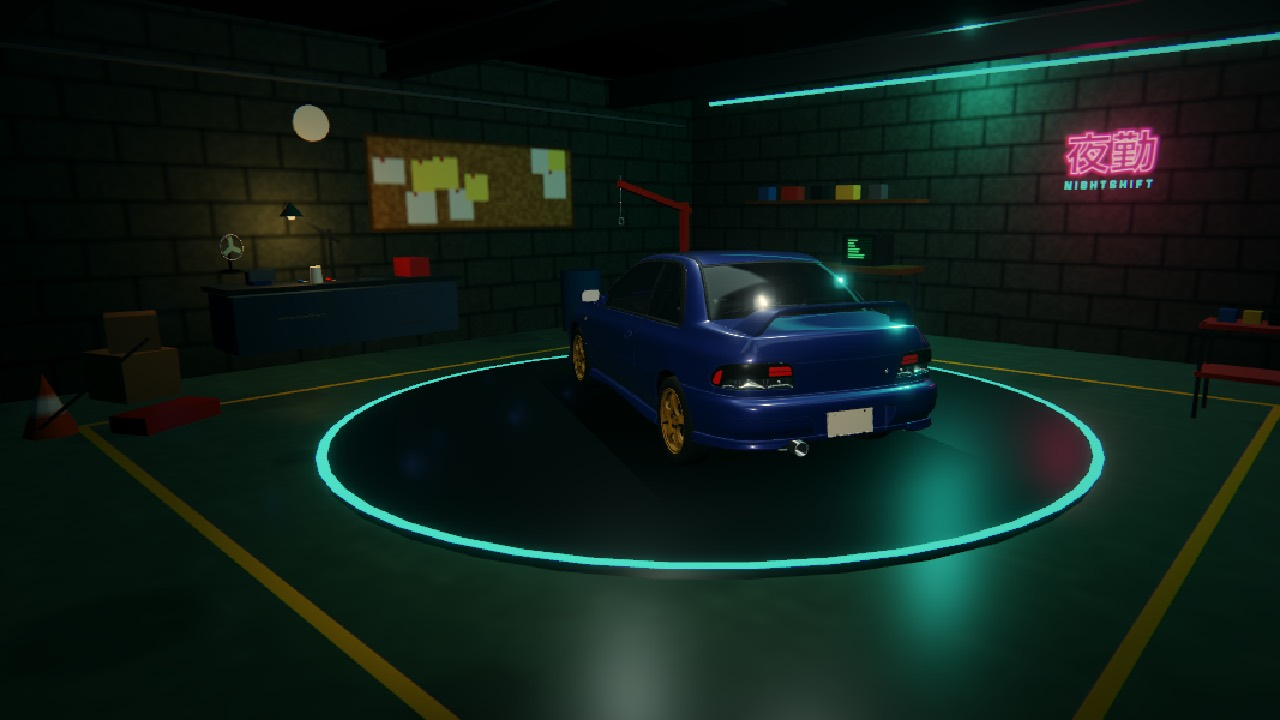
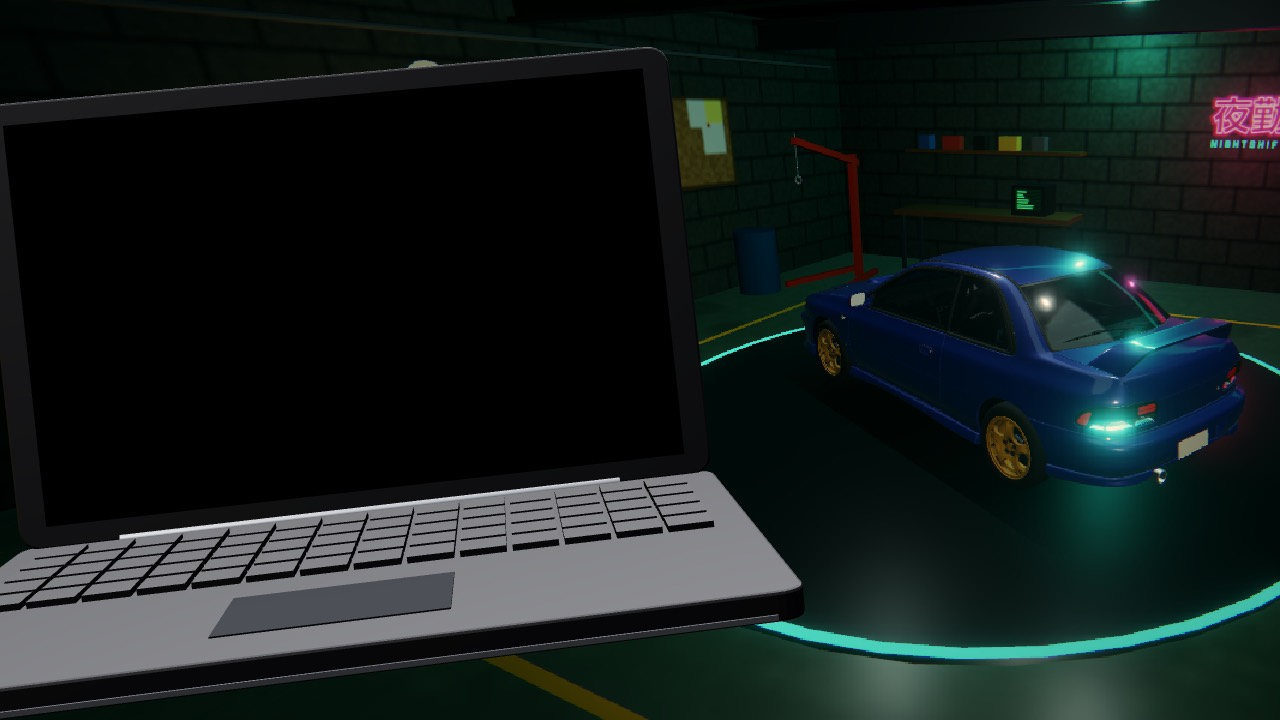
Part 3 of Arlo's fourth notes: Yamagiri Pass, Parabolica in blossom, sky bake, new trees and buildings, docs

diff --git a/src/world/mountain-scene.js b/src/world/mountain-scene.js
@@ -160,10 +160,7 @@ export function buildMountain(track, def) {
   const lampAt = (k) => {
     const [x, z] = along(k, W + 0.6), i = at(k);
     place.add('mountain-lamp', x, track.y[i], z, Math.atan2(-track.leftZ(i), track.leftX(i)));
-    const g = strip(track, -hw - 2, hw + 2, 0.03, { step: 2, from: k - 14, to: k + 14, closed: false, uScale: 1 / (2 * hw + 4), vScale: 1 });
-    const u = g.attributes.uv;
-    for (let q = 0; q < u.count; q++) u.setY(q, (u.getY(q) - (k - 14)) / 28);
-    pools.push(g);
+    pools.push([k, 15, hw + 2.2]);
   };
   const lampSpots = new Set();
   for (let k = 40; k < n; k += 86) lampSpots.add(k);
@@ -203,13 +200,10 @@ export function buildMountain(track, def) {
     place.add('torii', x, y, z, head(k), 1);
     if (g % 2) continue;
     for (const s of [1, -1]) { const [lx, lz] = along(k, s * 5); place.glow(lx, y + 5.3, lz, [1, 0.36, 0.14], 2.4); }
-    const pg = strip(track, -hw, hw, 0.03, { step: 2, from: k - 8, to: k + 8, closed: false, uScale: 1 / (2 * hw), vScale: 1 });
-    const u = pg.attributes.uv;
-    for (let q = 0; q < u.count; q++) u.setY(q, (u.getY(q) - (k - 8)) / 16);
-    redPools.push(pg);
+    redPools.push([k, 9, hw + 0.6]);
     if (g % 4 === 0) { const l = new THREE.Vector3(x, y + 5.4, z); l.floor = y; place.lamps.push(l); }
   }
-  group.add(new THREE.Mesh(merge(redPools), new THREE.MeshBasicMaterial({ map: Tex.lightPoolWhite(), color: 0xc83418, transparent: true, depthWrite: false, blending: THREE.AdditiveBlending, polygonOffset: true, polygonOffsetFactor: -4 })));
+  group.add(roadGlow(track, redPools, 0x7a2010));
   // The shrine, on its shelf above the drop, stone lanterns up to it.
   {
     const [x, z] = along(SHRINE, W + 15);
@@ -236,16 +230,10 @@ export function buildMountain(track, def) {
       col.position.set(x, y + roofH / 2, z); col.rotation.y = head(k);
       group.add(col);
     }
-    const shedPools = (k) => {
-      const g = strip(track, -hw - 1, hw + 1, 0.03, { step: 2, from: k - 12, to: k + 12, closed: false, uScale: 1 / (2 * hw + 2), vScale: 1 });
-      const u = g.attributes.uv;
-      for (let q = 0; q < u.count; q++) u.setY(q, (u.getY(q) - (k - 12)) / 24);
-      pools.push(g);
-    };
     for (let k = SHED[0] + 8; k < SHED[1]; k += 16) {
       const [x, z] = along(k, 0), y = roadY(k);
       place.glow(x, y + roofH - 0.3, z, 'white', 1.4);
-      shedPools(k);
+      pools.push([k, 13, hw + 1.4]);
       const l = new THREE.Vector3(x, y + roofH - 0.6, z); l.floor = y; place.lamps.push(l);
       const bar = new THREE.Mesh(new THREE.BoxGeometry(0.26, 0.08, 1.8), new THREE.MeshBasicMaterial({ color: 0xe4ecff }));
       bar.position.set(x, y + roofH - 0.05, z); bar.rotation.y = head(k);
@@ -253,7 +241,7 @@ export function buildMountain(track, def) {
     }
   }
 
-  if (pools.length) group.add(new THREE.Mesh(merge(pools), new THREE.MeshBasicMaterial({ map: Tex.lightPoolWhite(), color: 0x8ea8d8, transparent: true, depthWrite: false, blending: THREE.AdditiveBlending, polygonOffset: true, polygonOffsetFactor: -4 })));
+  group.add(roadGlow(track, pools, 0x46566e));
 
   // --- The forest ---
   // Close to the road, real cedars; behind them, three crossed pictures of a
@@ -316,6 +304,29 @@ export function buildMountain(track, def) {
       ground: 0x0c0e12,
     },
   };
+}
+
+// Light painted down the road, following its hills: [metres, half length, half
+// width] for each pool, soft to nothing at the edges.
+function roadGlow(track, list, colour) {
+  const pos = [], col = [], idx = [], c = new THREE.Color(colour), ACROSS = 6;
+  for (const [k, len, wide] of list) {
+    const base = pos.length / 3;
+    for (let d = -len; d <= len; d++) {
+      const i = track.wrap(k + d);
+      for (let a = 0; a <= ACROSS; a++) {
+        const s = a / ACROSS * 2 - 1, f = Math.max(0, 1 - Math.hypot(d / len, s)) ** 1.5;
+        pos.push(track.x[i] + track.leftX(i) * s * wide, track.y[i] + 0.05, track.z[i] + track.leftZ(i) * s * wide);
+        col.push(c.r * f, c.g * f, c.b * f);
+        if (d < len && a < ACROSS) { const p = base + (d + len) * (ACROSS + 1) + a, n = ACROSS + 1; idx.push(p, p + 1, p + n, p + 1, p + n + 1, p + n); }
+      }
+    }
+  }
+  const g = new THREE.BufferGeometry();
+  g.setAttribute('position', new THREE.Float32BufferAttribute(pos, 3));
+  g.setAttribute('color', new THREE.Float32BufferAttribute(col, 3));
+  g.setIndex(idx);
+  return new THREE.Mesh(g, new THREE.MeshBasicMaterial({ vertexColors: true, transparent: true, depthWrite: false, side: THREE.DoubleSide, blending: THREE.AdditiveBlending, polygonOffset: true, polygonOffsetFactor: -4 }));
 }
 
 // What the bake sees from the mountain: ranges one behind the other, a valley

diff --git a/src/race/race.js b/src/race/race.js
@@ -10,7 +10,7 @@
 // 'racing' -> 'finished' (when the player, or in the bench the leader,
 // crosses the line after the last lap; the rest carry on to the line).
 
-import { keepOnTrack } from '../physics/walls.js';
+import { keepOnTrack, settleOnRoad } from '../physics/walls.js';
 import { applyWeather } from '../physics/weather.js';
 import { knock } from '../physics/knocks.js';
 
@@ -45,6 +45,7 @@ export class Race {
       const i = t.wrap(start - 6 - row * 8);
       const o = side * hw * 0.45;
       c.vehicle.reset(t.x[i] + t.leftX(i) * o, t.z[i] + t.leftZ(i) * o, t.headingAt(i));
+      settleOnRoad(c.vehicle, t, { index: i, along: 0 });
       c.index = i; c.offset = o; c.covered = -(6 + row * 8);
     });
     this.start = start;
@@ -169,6 +170,7 @@ export class Race {
     const t = this.track, i = t.wrap(c.index - 5);
     const [x, z, o] = this.line.point(i);
     c.vehicle.reset(x, z, t.headingAt(i));
+    settleOnRoad(c.vehicle, t, { index: i, along: 0 });
     c.index = i; c.offset = o; c.resets++;
     if (c.driver) c.driver.stuck = 0;
     applyWeather(c.vehicle, this.weather);

diff --git a/src/ui/notice.js b/src/ui/notice.js
@@ -3,13 +3,15 @@
 // nothing to compare with, gets none.
 
 const NOTICE = {
-  id: '2026-11-01-notes4-2',
+  id: '2026-11-01-notes4-3',
   subject: 'What’s new',
   lines: [
-    'New: Analytics on the race laptop. Know who you are up against.',
-    'The Shop is now Dave\'s lot. Walk round a car before you buy it.',
-    'The Garage has moved onto a laptop, so the car has more room.',
-    'No headlights at dawn.',
+    'New track: Yamagiri Pass. Three hairpins up, a ridge under the shrine gates, and a long fast drop home.',
+    'Parabolica Street is lined with cherry blossom, the whole way round.',
+    'Every Street track is open to race from the start.',
+    'New trees and buildings everywhere, and a real city on the horizon.',
+    'Dave has moved into his cabin window.',
+    'No headlights at sunset either.',
   ],
 };
 

diff --git a/src/main.js b/src/main.js
@@ -481,6 +481,7 @@ class Game {
     fade.classList.add('on');
     setTimeout(() => {
       this.vehicle.reset(a.x, a.z, a.heading);
+      settleOnRoad(this.vehicle, this.track, this.track.nearest(a.x, a.z));
       this.prepare();
       fade.classList.remove('on');
     }, 260);
@@ -633,6 +634,7 @@ class Game {
     const t = this.track;
     const i = t.wrap(index);
     this.vehicle.reset(t.x[i], t.z[i], t.headingAt(i));
+    settleOnRoad(this.vehicle, t, { index: i, along: 0 });
     applyWeather(this.vehicle, this.weatherId);
     this.trackIndex = i;
     if (this.cameras) this.cameras.set(this.cameras.mode, this.carRef());

diff --git a/src/world/tracks.js b/src/world/tracks.js
@@ -30,7 +30,7 @@ export const TRACKS = [
   {
     id: 'parabolica',
     name: 'Parabolica Street',
-    blurb: 'A city ring road round a park, shaped like Monza. Long straights, two chicanes, the Lesmos and the long Parabolica.',
+    blurb: 'A city ring road lined with cherry blossom, shaped like Monza. Long straights, two chicanes, the Lesmos and the long Parabolica.',
     corners: 11,
     jp: 'パラボリカ通り',
     stage: 'street',

diff --git a/CLAUDE.md b/CLAUDE.md
@@ -16,8 +16,8 @@ way they are, HANDOFF.md for how the last session ended. BRIEF.md is the origina
 - Automatic gearbox is the default. Manual is optional and must never be needed to be quick.
 - Art: realistic (since Milestone 6, 2026-10-28): physically based materials and tone mapping, drawn a little pixelated on Medium and High (David, 2026-10-31). Low graphics keeps the old chunky-pixel look. Story pictures stay pixel art.
   Neon Japan is the theme (David, 2026-10-26): each track has its own light colour (the
-  Starter Track warm amber, the Underground turquoise, Parabolica Street pink neon under
-  white lamps), with neon signs and Japanese text as accents. Cars have clear-coated paint that reflects the lights round them; the world
+  Starter Track warm amber, the Underground turquoise, Parabolica Street pink neon and cherry
+  blossom under white lamps, Yamagiri Pass cold moonlight with red shrine gates), with neon signs and Japanese text as accents. Cars have clear-coated paint that reflects the lights round them; the world
   stays matte.
 - Cars have near-miss names ("Nissani Skyliner") and no real badges, logos or exact real names; the real
   make and model live in each recipe's `identity`. Every car comes from a GLB in `GLB/` (git-ignored, David's
@@ -27,7 +27,7 @@ way they are, HANDOFF.md for how the last session ended. BRIEF.md is the origina
   to replace. Authors are credited in README.md. The Impreza's source is unknown: David chose to publish it
   anyway (2026-10-31); add its credit to README.md once he knows it.
 - UI (David, 2026-11-01): black and titanium base; white, amber and teal for all colour; no pink. Clean, not pixelated, with layouts from his racing-game references and none of their colours. Fonts stay: Jersey 10 for titles and numbers, DotGothic16 for text, always bold and thickened. Every colour, font and size lives in the list at the top of `styles/main.css`: change them there, never on a screen. See SPEC.md, "Look of the menus". References: `Reference/User Interface`.
-- Career is the main mode: Street, GT3, then Formula. Cars cost CR in the shop, tracks unlock by being played, and the only way to go faster for good is a faster car: no permanent parts. One-race upgrades are bought on the laptop before a career race (`src/career/upgrades.js`). The garage is looks only. GT3 and Formula have no cars yet, so the story ends at level 100 with "to be continued".
+- Career is the main mode: Street, GT3, then Formula. Cars cost CR in the shop, every track in your stage is open to race (David, 2026-11-01), and the only way to go faster for good is a faster car: no permanent parts. One-race upgrades are bought on the laptop before a career race (`src/career/upgrades.js`). The garage is looks only. GT3 and Formula have no cars yet, so the story ends at level 100 with "to be continued".
 - Control hints appear only in Settings > Controls. One exception (David, 2026-11-01): the laptop's NOS row names its key.
 - Sound only from code or from recordings we are allowed to redistribute (credit them).
 - `Reference/` holds David's reference images (`User Interface`, `Cars`, `Tracks`). It is
@@ -42,7 +42,7 @@ way they are, HANDOFF.md for how the last session ended. BRIEF.md is the origina
 - Look at it without opening a window: `node tools/shot.mjs "screen=garage&car=countach-qv" out.png`
   (headless Chrome; see the top of the file for several shots, sizes and running JavaScript).
 - Smoke test (headless Chrome: computer/clear, iPad/rain, the Countash on the Underground,
-  Parabolica Street in snow at dawn, then a race against seven AI cars; a bot drives for 20 s
+  Parabolica Street in snow at dawn, a race on Yamagiri Pass in the rain, then a race against seven AI cars; a bot drives for 20 s
   through both cameras, then the career and driving benches; about 8 minutes, so run it in the
   background): `./tools/smoke.sh`
 - AI bench: `node tools/ai-bench.mjs` (about 5 minutes: races, rival tuning, lap times per difficulty). Run it after changing the AI, physics or a track.
@@ -54,7 +54,7 @@ way they are, HANDOFF.md for how the last session ended. BRIEF.md is the origina
 - Look at a car from every side: `node tools/turnaround.mjs countach-qv` (add `cockpit` first for the driver's seat), saved in `review/turn/`. Recapture cars: `npm install`, then `node tools/capture-car.mjs`.
 - Add a car: put the GLB in `GLB/`, write a recipe in `tools/car-recipes.mjs` (`findSteering` and `listIslands` help), `node tools/capture-car.mjs <id>`. It prints the scale: near 1:1 means the axles are right.
 - New props go in the asset library (`src/world/assets.js`) and are placed through a `Placer`;
-  check each one on the `?library` page.
+  check each one on the `?library` page. Anything too far away to move as you drive goes in the sky bake (`skyBackdrop` in `track-scene.js`), not the world.
 
 ## Code map
 - `src/main.js` start-up, game states (menu, driving, paused), smoke-test bot
@@ -62,8 +62,8 @@ way they are, HANDOFF.md for how the last session ended. BRIEF.md is the origina
 - `src/input/` the shared control state, keyboard (rebindable), touch (joystick, buttons, layout editor), gamepad
 - `src/physics/` car physics (`vehicle.js`), gearbox, wall collisions, two cars touching (`knocks.js`), weather grip table (with weather patches)
 - `src/vehicles/` car list with specs, prices and tiers (`cars.js`), looks: paint, finish, decals, wheels, ride height (`looks.js`), home flags (`flags.js`), Feel on top of a car's numbers (`tuning.js`), ratings (`stats.js`), car bodies from profile curves (`body.js`), each car's shape and details (`car-model.js`), cars from GLBs (`captured.js`, files in `assets/cars/`: `<id>-lite.bin` loads at start-up, `<id>.bin` with every triangle replaces it on computers), real 3D rims (`wheels.js`), the cabin seen from the driver's seat (`cabin.js`), the bonnet and engine bay (`engine-bay.js`)
-- `src/world/` track centre-line maths and the turtle that draws tracks (`track-path.js`), the track list and points, the asset library and Placer (`assets.js`), the phone and laptop models on their own canvas (`props-devices.js`), shared scenery pieces (`scene-kit.js`), the harbour scenery and the city backdrop (`track-scene.js`), the Underground (`underground.js`, `underground-scene.js`), Parabolica Street (`parabolica.js`, `parabolica-scene.js`), the garage scene (`garage.js`), Dave's lot (`dealership.js`), time of day (`time-of-day.js`), weather visuals and snow (`weather.js`)
-- `src/graphics/` renderer with colour grade, dither, bloom (FFT convolution on High, a blur chain on Medium), speed blur with a cockpit mask and the low sun's glare, painted textures, vector pictures turned into pixel bitmaps (`pixel-art.js`), effects (sprite smoke, spark streaks, skid marks), paint reflections (`reflections.js`), the sky dome shader (`sky.js`)
+- `src/world/` track centre-line maths, road height and the turtle that draws tracks (`track-path.js`), the track list and points, the asset library and Placer (`assets.js`), the phone and laptop models on their own canvas (`props-devices.js`), shared scenery pieces (`scene-kit.js`), the harbour scenery and the city backdrop (`track-scene.js`), the Underground (`underground.js`, `underground-scene.js`), Parabolica Street (`parabolica.js`, `parabolica-scene.js`), Yamagiri Pass (`mountain.js`, `mountain-scene.js`), the garage scene (`garage.js`), Dave's lot (`dealership.js`), time of day (`time-of-day.js`), weather visuals and snow (`weather.js`)
+- `src/graphics/` renderer with colour grade, dither, bloom (FFT convolution on High, a blur chain on Medium), speed blur with a cockpit mask and the low sun's glare, painted textures, vector pictures turned into pixel bitmaps (`pixel-art.js`), effects (sprite smoke, spark streaks, skid marks), paint reflections (`reflections.js`), the sky dome shader (`sky.js`), far scenery baked into the sky (`far-bake.js`)
 - `src/cameras/` chase and cockpit cameras, camera shake, `speedRush` (the one number for how fast it should feel)
 - `src/audio/` engine, tyres, wind, impacts, backfires, rain and night ambience (`audio.js`), menu sounds (`ui-sounds.js`), all synthesised
 - `src/race/` the racing line (`racing-line.js`), AI drivers (`ai-driver.js`), the four difficulties (`difficulty.js`), picking and tuning the rivals (`opponents.js`), the race manager: grid, countdown, laps, places, slipstream (`race.js`), Time Trial timing and its ghost (`ghost.js`), the laptop's Analytics (`analytics.js`), the rival cars and ghost on screen (`race-view.js`)

diff --git a/STATE.md b/STATE.md
@@ -1,37 +1,37 @@
 # NIGHTSHIFT: state
 
-_Last updated 2026-11-01, session 18. Parts 1 and 2 of Arlo's fourth notes are merged and live._
+_Last updated 2026-11-01, session 19. Part 3 of Arlo's fourth notes (environments) is merged and live._
 
 ## Where we are
-Part 2 of 3 is live: tabs and Analytics on the race laptop, Shop and Garage on a laptop on the left, Dave's lot with Dave talking in the corner, no headlights at dawn.
+Yamagiri Pass, a mountain track with real hills. Parabolica Street lined with cherry blossom. Far city and mountains baked into the sky. New trees and buildings. Every Street track open to race. Dave in his cabin window, laptops leaning left, no headlights at sunset.
 
 ## Next
-- **Part 3:** phone contacts and favours, one every 24 real hours per person; Sonny after Under the City, with invites (500 CR entry, podium or nothing, one try, one difficulty step up, about twice your top event); Johnny 10% off one type of car; Dave's quests for a discount on any car. Fix Parabolica Street, build the mountainside map, and raise trees, buildings and other trackside models to the cars' quality. Rough edges below.
+- **Part 4:** phone contacts and favours, one every 24 real hours per person; Sonny after Under the City, with invites (500 CR entry, podium or nothing, one try, one difficulty step up, about twice your top event); Johnny 10% off one type of car; Dave's quests for a discount on any car. Sonny's invites are a good home for Yamagiri Pass, which has no Career events yet.
 David said: push each part when finished, without asking.
 
 ## Open with David
-- Sprite sheets for Sonny and Dave are coming from him (5 across, 4 down, on black). Dave's painted stand-in is up until then; Sonny's comes in Part 3. Same question for Max and Aoi.
-- What exactly is wrong with Parabolica Street? David says it still needs fixing; nothing records what. Ask before Part 3's track work.
+- Can Claude download free CC0 textures and tree models (Poly Haven, ambientCG), credited in the README? His answers skipped this, so everything is still drawn in code.
+- Does "race any map in my stage" cover only Race, Time Trial and Practice? Career events are still on their set tracks.
+- Is Yamagiri Pass the right name, and are 3 laps (over 5 minutes) too long? Does the mountain feel right to drive? Nobody here has felt the hills.
+- Try it on a real iPad: never done, and this update is the heaviest yet.
+- Is sunset too dark without headlights, on the mountain most of all?
+- Sprite sheets for Sonny and Dave are coming from him (5 across, 4 down, on black). Same question for Max and Aoi.
+- Guesses (session 19): Dave's cabin layout; the mountain's layout, landmarks, name and blurb; tree spacing; petal amounts; the number of far towers.
 - Guesses (session 18): Dave's lines, backstory and sign; the look of the lot; the laptop's size on screen; the race laptop's new angle; Analytics columns and "Most trouble" wording; you counted as mid-field in the prediction; headlight strength; pull-up timing; NOS sounds.
-- Does NOS feel right? Nobody here can hear the roar. "30%" is set as how far ahead of the same car a held bottle gets you.
-- Are the headlights bright enough? One number in `car-model.js`.
-- Does the new look work on every screen he uses? Is the small text right now (`--weight`, `--track`)?
-- Does the racing feel right? F4 > Camera: speed feel turns all the speed effects up or down together.
+- Does NOS feel right? Are the headlights bright enough (one number in `car-model.js`)? Does the racing feel right (F4 > Camera: speed feel)? Is the small text right?
 - Hard: a limit bot from last finishes 4th to 7th. Is that too hard for a person?
 - Guesses (session 16): style numbers; 30% slipstream; Underground 1.46 km; ghost is best lap.
 - Guesses (session 15): rival level rule; Skyliner and Mustank prices; event names and order; XP; replay pay; the scout Aoi; Medium 480 and High 600 lines; start positions; Race pay.
-- The Subaru's source: no author or licence. Live on David's decision; credit it when known.
-- Mustank: its real sponsor livery now shows on a shop card; replace with near-miss art.
-- Guesses (older): Impreza 146 hp and four-wheel drive; "Late 90s"; Countash numbers; near-miss names; Mustank seat and cabin; dial size; feel of the slower cars; handbrake lever; Parabolica's gold lamps; sun glare; engine sounds; tips' wording; rim sizes.
+- The Subaru's source: no author or licence. Mustank: its real sponsor livery shows on a shop card.
+- Guesses (older): Impreza 146 hp and four-wheel drive; "Late 90s"; Countash numbers; near-miss names; Mustank seat and cabin; dial size; feel of the slower cars; handbrake lever; sun glare; engine sounds; tips' wording; rim sizes.
 
 ## Known rough edges
-- Rivals touch the walls more on Hard on the narrow Starter, and on Impossible more still. None needed putting back.
+- Dave's roof sign is half hidden by the top bar in the Shop.
+- The mountain's rock is one tile of grey, stretched on steep faces.
+- Rivals touch the walls more on Hard on the narrow Starter, and on Impossible more still.
 - At speed the stars streak with the motion blur.
-- The cranes in the docks picture are painted over the new road and float a little.
-- Johnny has no blink. The story's Skip button still stops at the racer form, on purpose.
-- The phone and laptops have not been tried on a real iPad: a second 3D view may cost frame rate there, and now it runs all the time in the Shop and Garage.
+- The cranes in the docks picture float a little. Johnny has no blink.
+- The phone and laptops have not been tried on a real iPad.
 - The Shop tile on the home screen still shows the Underground, not Dave's lot.
-- World neon, including pink, is unchanged on purpose.
-- Only the player has engine sound, smoke and sparks. Rivals use the parked model.
-- Three tracks across a whole career repeat; weather, time and rivals vary them.
+- Only the player has engine sound, smoke and sparks.
 - Old drawn-car code and `src/ui/menus.js` are dead but still there. Car files about 50 MB.

diff --git a/HANDOFF.md b/HANDOFF.md
@@ -1,4 +1,4 @@
-# Hand-off: end of session 18 (2026-11-01)
+# Hand-off: end of session 19 (2026-11-01)
 
 ## Repo state
 - On `main`, everything committed and pushed; no other branches. `main` is the live site. Next work goes on a new branch. David's standing rule for these notes: when a part is finished and checked, merge and push it without asking.
@@ -7,7 +7,14 @@
 `CLAUDE.md`, `STATE.md`, the last 20 lines of `DECISIONS.md`, then this file.
 
 ## What comes next
-Part 3 of David's fourth notes: spelled out under "Next" in `STATE.md`, with his answers in `DECISIONS.md`. He wants each part pushed when finished, without asking.
+Part 4 of David's fourth notes: spelled out under "Next" in `STATE.md`, with his answers in `DECISIONS.md`. He wants each part pushed when finished, without asking.
+
+## How the environments work
+- Road height: `heights` keys in a track's definition; `TrackPath.y`, `.grade`. `keepOnTrack` calls `settleOnRoad`, which sets `vehicle.roadY`, `.slope`, `.slopeSide`. After teleporting a car, call `settleOnRoad` before any camera snap. `placeOnRoad` (race-view.js) tips a body. Strips and walls in `scene-kit.js` follow the height by themselves; a Placer needs the y passed in.
+- Sky bake: `skyBackdrop(farGroup, centre)` or `cityBackdrop`. `backdrop.userData.far` is the `FarBake`; `applyLook` bakes, `WeatherView.set` sets the haze. It must not be `transparent` in Three's eyes or it draws over the world.
+- Trees: `crown()` and `limbs()` in `assets.js`, textures `Tex.leaves`, `blossom`, `cedarTier`, `cedarCard`. Crowns are `FrontSide`: double-sided flips the out-pointing normals and turns half the cards black.
+- A world can have `update(dt, camera, v)` (Parabolica's petals) and `setSnow(on)` (the mountain's ground).
+- Light on a hilly road: `roadGlow` in `mountain-scene.js`, not `place.pool`, which is flat.
 
 ## How the look works
 - Colours, fonts, spacing: the list at the top of `styles/main.css`. Canvas drawings repeat a few of those values (`ui/hud.js`, `ui/screens.js`, `input/touch.js`).
@@ -48,15 +55,13 @@ Part 3 of David's fourth notes: spelled out under "Next" in `STATE.md`, with his
 - Check the printed scale: near 1:1 means the recipe's `axles` fit. Helpers: `listIslands`, `findSteering`, `listCabinNear`. Always check a cockpit by turning the wheel.
 
 ## Open with David
-Ask these first, then start Part 3.
-1. What exactly is wrong with Parabolica Street? Nothing records it.
-2. Are the sprite sheets for Sonny and Dave ready (5 across, 4 down, on black)? Any for Max and Aoi?
-3. Did the iPad hold up in the Shop and Garage, with the second 3D view running all the time? Never tried on a real one.
-4. Do NOS (roar, shake, 30 to 35%), the headlights, the pull-up and the cockpit feel right? Nobody here can hear or feel them.
-5. Do Dave's lines, the lot, the laptop's size and the race laptop's new angle work for him? All guesses.
-6. Does the new look work on every screen, and is the small text right (`--weight`, `--track`)?
-7. Does the racing feel right? Is Hard too hard (a limit bot from last finishes 4th to 7th)?
-8. The Subaru's source, for its credit, and near-miss art for the Mustank's sponsor livery on its shop card.
-9. Older guesses from sessions 15, 16 and before: listed in `STATE.md`.
+Ask these first, then start Part 4.
+1. Can Claude download free CC0 textures and tree models? His answers skipped this; everything is still drawn in code.
+2. Does "race any map in my stage" also mean choosing the map in Career? It is Race, Time Trial and Practice for now.
+3. How does Yamagiri Pass drive, and is 3 laps too long? Is sunset too dark without headlights?
+4. Did the iPad hold up? This update is the heaviest yet.
+5. Are the sprite sheets for Sonny and Dave ready (5 across, 4 down, on black)? Any for Max and Aoi?
+6. Do NOS, the headlights, the pull-up, the cockpit and Dave's lines work for him? All guesses.
+7. Is Hard too hard? The Subaru's source and near-miss art for the Mustank's livery. Older guesses are in `STATE.md`.
 
-Part 3 changes a rule: Sonny's 500 CR entry means "you can never lose money" stops being true for that race type. Update SPEC.md point 9 then.
+Part 4 changes a rule: Sonny's 500 CR entry means "you can never lose money" stops being true for that race type. Update SPEC.md point 9 then.

diff --git a/DECISIONS.md b/DECISIONS.md
@@ -174,3 +174,15 @@ One line each, newest last. The oldest phase is in DECISIONS-archive.md.
 - 2026-11-01: Shop and Garage laptop: the existing HTML is laid over the 3D model's display with a CSS perspective matrix every frame (DeviceStage.pin), so every button, list and scroll stays as it was. In that mode the model's canvas sits under the menus. A button puts the laptop down. The Garage's rail and pop-up are gone: tabs along the top of the laptop, choices left, Spec right.
 - 2026-11-01: Dave's lot is a third scene (`room` in main.js), built the first time you open the Shop. Picking a card puts that car on the lot; leaving puts your own back. Lines are Claude's. His face is a stand-in painted in code until David's sheet.
 - 2026-11-01: David's standing rule for this work: push each finished part without asking. Parts 1 and 2 went live that way.
+- 2026-11-01: Part 3 split in two (Claude's call, David went ahead): environments and quick fixes now, contacts, favours, Sonny and quests next.
+- 2026-11-01: Laptops lean 0.09 radians to the left (David), moved right to stay on screen. One number, `LEAN` in `ui/desk.js`.
+- 2026-11-01: No headlights at sunset either (David: too bright). Lamps are on only at night, rivals too.
+- 2026-11-01: Dave is out of the corner and in the cabin window (David). The window is a real hole with a propped steel flap and a room behind it; nothing there glows. The cabin moved in behind the carport so the window is on screen. His bubble follows the window.
+- 2026-11-01: Tracks open by stage, not by being played (David). A track has `stage`; every Street track is open from level 0. Career events keep their set tracks (Claude's reading, unconfirmed).
+- 2026-11-01: Roads have height. Physics stays flat: `keepOnTrack` sets `roadY`, `slope`, `slopeSide` on the car, and the only force from it is gravity along `slope`. Everything else that used y = 0 follows `roadY`. Heights are keys along the road in the track's definition.
+- 2026-11-01: Yamagiri Pass (name and design are Claude's): 2.55 km, 9 m wide, 12 to 110 m high, up to 11% steep, in Race, Time Trial and Practice only until Sonny's invites use it. Lap about 100 s, so 3 laps run over 5 minutes. The mountain is built round the road, not the road on the mountain: following a terrain made steeps of 38%.
+- 2026-11-01: Far scenery is baked into the sky (David's idea): a group of far things is rendered once into a cube and shown on the dome, again when the time of day changes. The city went from 70 blocks to 520 towers (760 on Parabolica) for the cost of one mesh.
+- 2026-11-01: Trees are cards now: a crown of see-through leaf pictures with normals pointing out, so it shades as one soft shape. Thousands of far cedars are three crossed pictures; a long list in a Placer is cut into 90 m cells so what is behind you is not drawn. iPad and Low get about half (`sceneDetail`).
+- 2026-11-01: Everything is drawn in code. No textures or models were downloaded: David's answers did not cover that question, so the free CC0 option stays open.
+- 2026-11-01: Parabolica Street: cherry trees both sides, the whole way round (David), about every 7 m. Catch fences removed so you can see them, petals on the pavement and the road's edge, petals falling. Lamps white (David confirmed the rule). More blossom in the park.
+- 2026-11-01: Building fronts repainted window by window at 256 to 1024 pixels, with lit windows in their own glow picture, kanji shop signs, and real balcony slabs on the flats.

diff --git a/SPEC.md b/SPEC.md
@@ -9,7 +9,7 @@
 3. **It sounds like a real engine.** Deep, layered, reacts to throttle, gear changes and
    lift-off. Never a mosquito.
 4. **Night atmosphere, neon Japan.** Each track has its own light: amber lamps round the
-   harbour, turquoise strips in the Tokyo tunnels. Fog, rain, red tail lights, Japanese signs
+   harbour, turquoise strips in the Tokyo tunnels, cherry blossom under white lamps on Parabolica Street, moonlight and red shrine gates on Yamagiri Pass. Fog, rain, red tail lights, Japanese signs
    and road markings. Realistic and a little pixelated on Medium and High; chunky pixels on Low.
 5. **Menus that feel like a racing game.** See "Look of the menus" below. Lists on the left, the
    thing you pick on the right, the main button bottom right; every button has its sound.
@@ -56,7 +56,7 @@ whole look: change a colour or a font there, once.
   (David, 2026-11-01), and the F1-style sheet on the left: place, who moved, name, gap to the leader,
   last lap; your row amber, the fastest lap teal.
 - Behind the menus: the 3D scene, except the plain screens (Career, Settings).
-- Shop and Garage: everything sits on a real laptop pulled up on the left, the car stands in the rest of the screen, and the laptop can be put down. The Shop is Dave's lot; Dave sits in the right corner talking rubbish.
+- Shop and Garage: everything sits on a real laptop pulled up on the left, the car stands in the rest of the screen, and the laptop can be put down. The Shop is Dave's lot; Dave leans in his open cabin window talking rubbish, his bubble hanging under it.
 - Japanese: on screen titles and in the world only, never on buttons or rows.
 - Motion: quick and smooth. Lists slide in when a screen or tab opens, never on every click.
 - Banned: control hints outside Settings > Controls, except the laptop's NOS row.
@@ -83,8 +83,8 @@ whole look: change a colour or a font there, once.
 6. Realism overhaul (M6, started 2026-10-28; GLB cars done, 2026-10-31). Then the career (2026-10-31):
    racing, four difficulties, money and levels, the shop, the story. **Street stage done.**
    Arlo's fourth notes (2026-11-01), in three parts: (1) feel, road, headlights, phone bin. **Done.**
-   (2) Analytics, laptops in Shop and Garage, Dave's lot. **Done.** (3) Contacts, favours, Sonny, quests,
-   Parabolica fixed, the mountainside map, trackside models up to the cars' quality. **Next.**
+   (2) Analytics, laptops in Shop and Garage, Dave's lot. **Done.** (3) Quick fixes, Parabolica in blossom, Yamagiri Pass,
+   trackside models, far scenery baked into the sky. **Done.** (4) Contacts, favours, Sonny, quests. **Next.**
 7. GT3 and Formula: their cars, circuits and story. Needs models from David.
 8. Saving and settings: the rest (most of it is done in 3).
 9. Polish and release.

diff --git a/CHANGELOG.md b/CHANGELOG.md
@@ -1,5 +1,12 @@
 # Changelog
 
+## Arlo's fourth notes, part 3: places (2026-11-01)
+- New track: Yamagiri Pass. A mountain road with real hills, three hairpins, a ridge under red shrine gates and the valley's lights far below.
+- Parabolica Street is lined with cherry blossom the whole way round, with white lamps and petals in the air.
+- Every Street track is open to race from the start.
+- New trees and buildings on every track, and a far bigger city on the horizon, baked into the sky so it costs almost nothing.
+- Dave has moved into his cabin window. The Shop and Garage laptops lean left. No headlights at sunset.
+
 ## Arlo's notes, part 3: the story (2026-11-01)
 - A new story: you are a data analyst, it all happens in Japan, and the ending starts Johnny's team.
 - Johnny has a new look with 20 expressions, and he hops when his expression changes.
